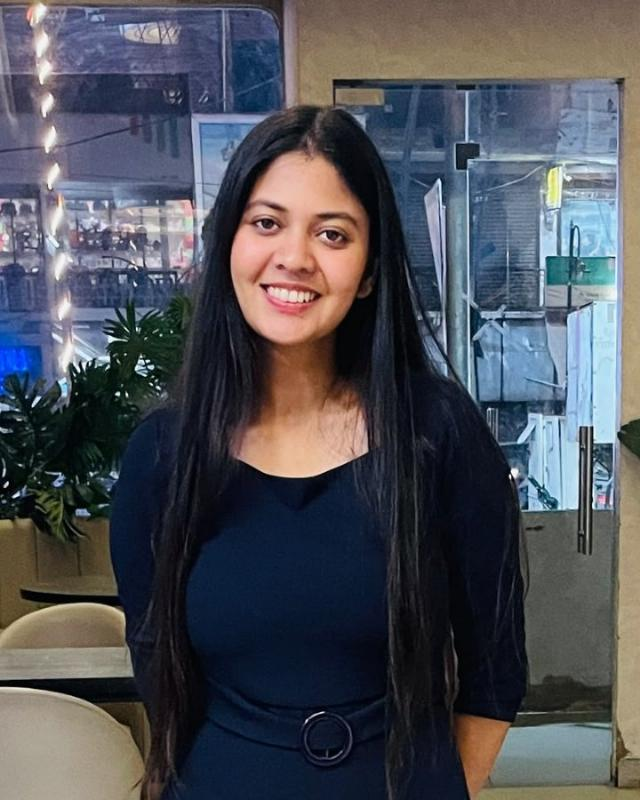
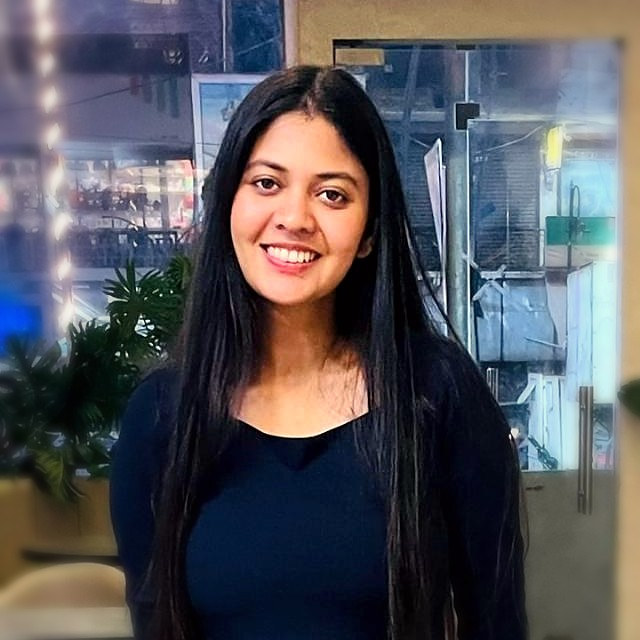
Crop hero photo to square from the bottom, retouch and soften background

diff --git a/site.css b/site.css
@@ -69,8 +69,8 @@ h3{font:600 20px/1.3 var(--sans);letter-spacing:-.012em}
 @keyframes pulse{50%{box-shadow:0 0 0 8px rgba(47,111,74,0)}}
 .hero .lead{margin:22px 0 0}
 .portrait{margin:0;position:relative}
-.portrait-frame{position:relative;border-radius:999px 999px 14px 14px;overflow:hidden;aspect-ratio:4/5;background:var(--paper2);box-shadow:0 30px 60px -34px rgba(22,19,14,.45)}
-.portrait-frame img{width:100%;height:100%;object-fit:cover}
+.portrait-frame{position:relative;border-radius:999px 999px 14px 14px;overflow:hidden;aspect-ratio:1/1;background:var(--paper2);box-shadow:0 30px 60px -34px rgba(22,19,14,.45)}
+.portrait-frame img{width:100%;height:100%;object-fit:cover;object-position:center 20%}
 .portrait-art{position:relative}
 .portrait-art::before{content:"";position:absolute;inset:16px -14px -14px 16px;border:1.5px solid var(--accent);border-radius:999px 999px 14px 14px}
 .portrait-frame{z-index:1}
@@ -84,7 +84,7 @@ h3{font:600 20px/1.3 var(--sans);letter-spacing:-.012em}
 .stats span{display:block;margin-top:10px;font-size:15px;color:var(--muted);max-width:18em}
 @media (max-width:900px){
   .hero-grid{grid-template-columns:1fr}
-  .portrait{max-width:340px;margin-right:14px}
+  .portrait{max-width:300px;margin-right:14px}
   .stats{grid-template-columns:1fr 1fr}
   .stats li:nth-child(3){padding-left:0;border-left:0}
   .stats li:nth-child(n+3){border-top:1px solid var(--line);margin-top:20px}

diff --git a/index.html b/index.html
@@ -62,7 +62,7 @@
       </div>
     </div>
     <figure class="portrait">
-      <div class="portrait-art"><div class="portrait-frame"><picture><source srcset="photo.webp" type="image/webp"><img src="photo.jpg" alt="Anushka Mishra" width="640" height="800" fetchpriority="high"></picture></div></div>
+      <div class="portrait-art"><div class="portrait-frame"><picture><source srcset="photo.webp" type="image/webp"><img src="photo.jpg" alt="Anushka Mishra" width="640" height="640" fetchpriority="high"></picture></div></div>
     </figure>
   </div>
   <ul class="stats" id="stats">
